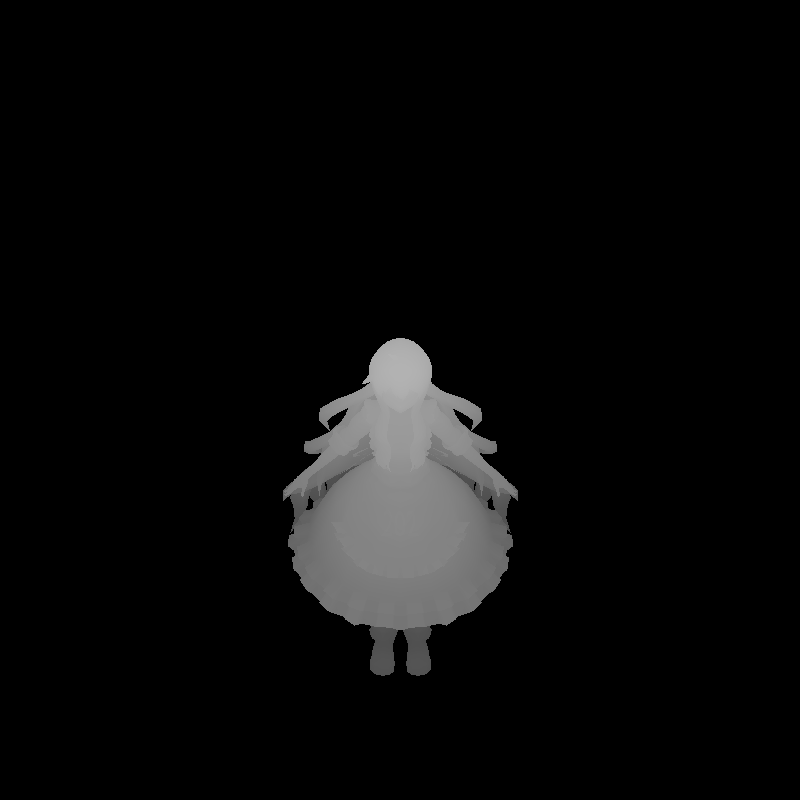
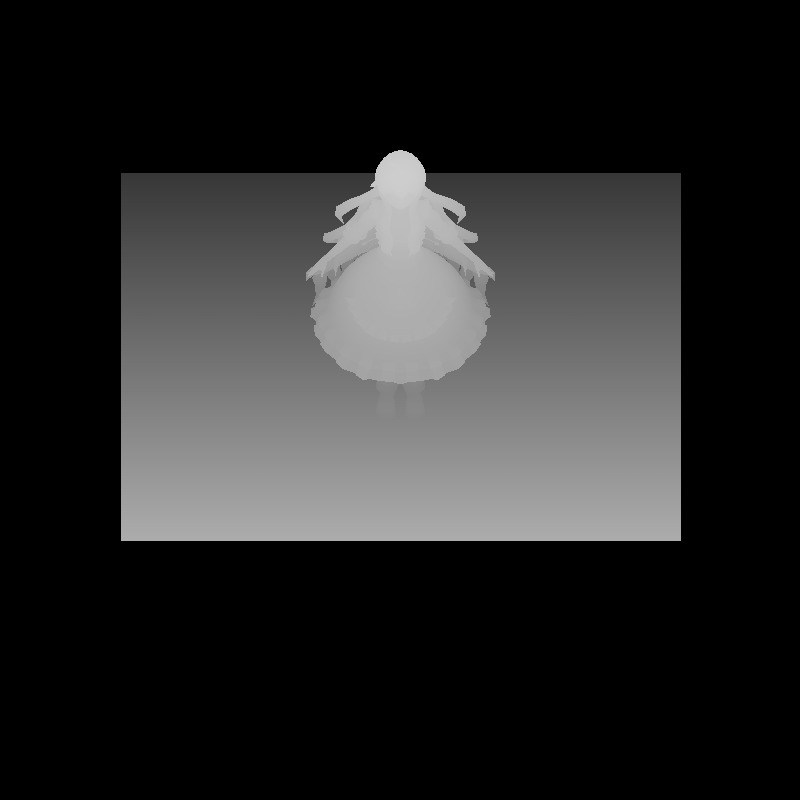
shadow

diff --git a/main.cpp b/main.cpp
@@ -281,104 +281,111 @@ void Example06() {
     depthFrame.id = 1;
     QGL::Frame frame = QGL::Frame(width, height, 4);
     frame.id = 2;
+
     QGL::Zbuffer zbuffer = QGL::Zbuffer(width, height);
+    QGL::RenderNode rn;
     QGL::Log log = QGL::Log(true, "Depth Shading: ");
     QGL::Timer timer = QGL::Timer();
     // QGL::NUMTHREADS = 8;
  
-    QGL::Model *model = new QGL::Model("../obj/Marry.obj");
-    model->vertsNormalize();
-    model->loadMap("../obj/MC003_Kozakura_Mari.png", QGL::MT_Diffuse);
+    // Marry Model
+    QGL::Model *marry = new QGL::Model("../obj/Marry.obj");
+    marry->vertsNormalize();
+    marry->loadMap("../obj/MC003_Kozakura_Mari.png", QGL::MT_Diffuse);
 
-
-    // Plane
-    Vec3f pts[4] = {Vec3f(-0.5, 0, 0.5), Vec3f(-0.5, 0, -0.5),
-                    Vec3f(0.5, 0, 0.5),  Vec3f(0.5, 0, -0.5)};
+    // Plane Model
+    Vec3f pts[4] = {Vec3f(-0.7, 0, 0.5), Vec3f(-0.7, 0, -0.8),
+                    Vec3f(0.7, 0, 0.5),  Vec3f(0.7, 0, -0.8)};
     QGL::Plane plane = QGL::Plane(pts);
     QGL::Model *planeModel = new QGL::Model(plane);
 
 
+    // Set camera from light
+    timer.update();
+    log = QGL::Log(true, "Depth Shading: ");
+
+    QGL::SetModelMat();
+    QGL::SetViewMat(dl.pos, origin, up);
+    // QGL::SetPerspectiveProjectMat(camera, origin);
+    QGL::SetScreenMat(0, 0, 800, 800, depth);
+    QGL::SetCamera(true);
+
+    // Depth Shader
+    QGL::DepthShader depthShader = QGL::DepthShader();
+    depthShader.uniform_mat_transform = QGL::MAT_TRANS;
+    
+    // 
+    rn.shader = &depthShader;
+    rn.frame = &depthFrame;
+    rn.zbuffer = &zbuffer;
+    rn.log = &log;
+    rn.comType = QGL::CT_Single;
+    //
+    rn.model = marry;
+    QGL::Rendering(rn);
+    // 
+    rn.model = planeModel;
+    QGL::Rendering(rn);
+
+    std::cout << timer.second() << "s" << std::endl;
+
+
+    // Marry && Plane
+    timer.update();
+
+    QGL::PlaneShader planeShader = QGL::PlaneShader();
+    QGL::ShadowShader shadowShader = QGL::ShadowShader();
+    planeShader.uniform_mat_depth_transform = QGL::MAT_TRANS;
+    shadowShader.uniform_mat_depth_transform = QGL::MAT_TRANS;
+    planeShader.depthFrame = &depthFrame;
+    shadowShader.depthFrame = &depthFrame;
+    // 
+    rn.frame = &frame;
+    zbuffer.clear();
+    //
     QGL::SetModelMat();
     QGL::SetViewMat(camera, origin, up);
     QGL::SetPerspectiveProjectMat(camera, origin);
     QGL::SetScreenMat(0, 0, 800, 800, depth);
     QGL::SetCamera(true);
-    QGL::PlaneShader planeShader = QGL::PlaneShader();
-    planeShader.uniform_mat_transform = QGL::MAT_TRANS;
-    planeShader.uniform_color = plane.color;
-    QGL::RenderNode rn;
-    rn.model = planeModel;
-    rn.shader = &planeShader;
-    rn.frame = &frame;
-    rn.zbuffer = &zbuffer;
-    rn.log = &log;
-    rn.comType = QGL::CT_Single;    
-    log.prefix = "Plane Shading: ";
-    timer.update();
+
+    // Marry
+    log = QGL::Log(true, "Shadow Shading: ");
+
+    shadowShader.uniform_mat_transform = QGL::MAT_TRANS;
+    shadowShader.uniform_mat_transform_i = (QGL::MAT_TRANS).inverse(); 
+    shadowShader.uniform_mat_norm_transform = QGL::MAT_NORM_TRANS;
+    shadowShader.uniform_camera = camera;
+    shadowShader.uniform_light = -dl.dir;
+    
+    rn.shader = &shadowShader;
+    rn.model = marry;
     QGL::Rendering(rn);
+
+    // Plane
+    log = QGL::Log(true, "Plane Shading: ");
+    planeShader.uniform_mat_transform = QGL::MAT_TRANS;
+    planeShader.uniform_mat_transform_i = (QGL::MAT_TRANS).inverse();
+    planeShader.uniform_color = plane.color;
+
+    rn.shader = &planeShader;
+    rn.model = planeModel;
+    QGL::Rendering(rn);
+
     std::cout << timer.second() << "s" << std::endl;
 
-
-    // Set camera from light
-    // std::cout << "set camera from light." << std::endl;
-    // QGL::SetModelMat();
-    // QGL::SetViewMat(dl.pos, origin, up);
-    // // QGL::SetPerspectiveProjectMat(camera, origin);
-    // QGL::SetScreenMat(-100, -350, 1000, 1000, depth);
-    // QGL::SetCamera(true);
-
-    // // Depth Shader
-    // std::cout << "set Depth Shader." << std::endl;
-    // QGL::DepthShader depthShader = QGL::DepthShader();
-    // depthShader.uniform_mat_transform = QGL::MAT_TRANS;
-    // // Get z-buffer
-    // QGL::RenderNode rn;
-    // rn.model = model;
-    // rn.shader = &depthShader;
-    // rn.frame = &depthFrame;
-    // rn.zbuffer = &zbuffer;
-    // rn.log = &log;
-    // rn.comType = QGL::CT_Single;
-    // std::cout << "Get z-buffer" << std::endl;
-    // QGL::Timer timer = QGL::Timer();
-    // timer.update();
-    // QGL::Rendering(rn);
-    // std::cout << timer.second() << "s" << std::endl;
-
-
-    // std::cout << "set Shadow Shader." << std::endl;
-    // log = QGL::Log(true, "Shadow Shading: ");
-    // QGL::ShadowShader shadowShader = QGL::ShadowShader();
-    // shadowShader.uniform_mat_depth_transform = QGL::MAT_TRANS;
-    // // Set camera from eye
-    // std::cout << "Set camera from eye." << std::endl;
-    // QGL::SetModelMat();
-    // QGL::SetViewMat(camera, origin, up);
-    // QGL::SetPerspectiveProjectMat(camera, origin);
-    // QGL::SetScreenMat(-100, -350, 1000, 1000, depth);
-    // QGL::SetCamera(true);    
-
-    // shadowShader.uniform_mat_transform = QGL::MAT_TRANS;    
-    // shadowShader.uniform_mat_norm_transform = QGL::MAT_NORM_TRANS;
-    // shadowShader.uniform_camera = camera;
-    // shadowShader.uniform_light = -dl.dir;
-    // shadowShader.depthFrame = &depthFrame;
-
-    // rn.shader = &shadowShader;
-    // rn.frame = &frame;
-    // zbuffer.clear();
-
-    // std::cout << "Render Shadow." << std::endl;
-    // timer.update();
-    // QGL::Rendering(rn);
-    // std::cout << timer.second() << "s" << std::endl;
+    std::cout << "draw depth frame." << std::endl;
+    std::string out_depth = "../example/out_depth.png";
+    depthFrame.flip();
+    depthFrame.draw(out_depth.c_str());
 
     std::cout << "draw frame." << std::endl;
     std::string out = "../example/out.png";
     frame.flip();
     frame.draw(out.c_str());
 
-    delete model;
+    // delete planeModel;
+    delete marry;
 }
 
 void ExampleOmp() {

diff --git a/shaders.h b/shaders.h
@@ -192,11 +192,12 @@ public:
 class ShadowShader : public Shader {
 public:
     Matrix uniform_mat_transform;
+    Matrix uniform_mat_transform_i;
     Matrix uniform_mat_norm_transform;
     Matrix uniform_mat_depth_transform;
     Vec3f uniform_camera;
     Vec3f uniform_light;
-    Vec3f varying_vertex[3];
+    Vec4f varying_vertex[3];
     Vec3f varying_normal[3];
     Vec2f varying_uv[3];
     Frame *depthFrame;
@@ -206,11 +207,11 @@ public:
         _normal = (uniform_mat_norm_transform*_normal).normalize();
         varying_normal[in.nthvert] = _normal.v3f();
 
-        varying_vertex[in.nthvert] = in.v;
         Vec4f vertex = Vec4f(in.v, 1.0f);
         vertex = uniform_mat_transform*vertex;
         vertex = vertex / vertex.w;
         out.sCoord = vertex;
+        varying_vertex[in.nthvert] = vertex;
 
         // tex
         Vec2f uv = in.model->tex(in.nthface, in.nthvert);
@@ -220,14 +221,14 @@ public:
     virtual bool fragment(const InFragment &in, OutFragment &out) {
         Vec3f bar = in.bar;
         Vec3f dir = uniform_light;
-        Vec3f v = varying_vertex[0]*bar[0]+varying_vertex[1]*bar[1]+varying_vertex[2]*bar[2];
-        
+        Vec4f sv = varying_vertex[0]*bar[0]+varying_vertex[1]*bar[1]+varying_vertex[2]*bar[2];
+        Vec4f v = uniform_mat_transform_i*sv;
+
         // if shadow
-        Vec4f v4f = Vec4f(v, 1.0f);
-        v4f = uniform_mat_depth_transform*v4f;
-        v4f = v4f / v4f.w;
-        float z = depthFrame->get(int(v4f.x+.5f), int(v4f.y+.5f))[0];
-        if (v4f.z > z + 0.003f) {
+        Vec4f dv = uniform_mat_depth_transform*v;
+        dv = dv / dv.w;
+        float z = depthFrame->get(int(dv.x+.5f), int(dv.y+.5f))[0];
+        if (dv.z < z - 0.003f) {
             out.color = Vec4f(0.0f, 0.0f, 0.0f, 1.0f);
             return false;
         }
@@ -235,7 +236,7 @@ public:
         Vec3f N = varying_normal[0]*bar[0]+varying_normal[1]*bar[1]+varying_normal[2]*bar[2];
         float diffuse = std::max(0.0f, dir*N);
 
-        Vec3f view = uniform_camera-v;
+        Vec3f view = uniform_camera-v.v3f();
         Vec3f h = (view + dir).normalize();
         float a = std::max(0.0f, h*N);
         float specular = std::pow(a, 100.f);
@@ -258,14 +259,41 @@ public:
 class PlaneShader : public Shader {
 public:
     Matrix uniform_mat_transform;
+    Matrix uniform_mat_transform_i;
+    Matrix uniform_mat_depth_transform;
     Vec4f uniform_color;
+    Frame *depthFrame;
+
+    Vec4f varying_vertex[3];
+    // Vec4f varying_depth_vertex[3];
+
     virtual void vertex(const InVectex &in, OutVectex &out) {
         Vec4f vertex = Vec4f(in.v, 1.0f);
         vertex = uniform_mat_transform*vertex;
         vertex = vertex / vertex.w;
         out.sCoord = vertex;
+        varying_vertex[in.nthvert] = vertex;
+
+        // wrong!
+        // Vec4f dv = Vec4f(in.v, 1.0f);
+        // dv = uniform_mat_depth_transform*dv;
+        // dv = dv / dv.w;
+        // varying_depth_vertex[in.nthvert] = dv;
     }
     virtual bool fragment(const InFragment &in, OutFragment &out) {
+        Vec3f bar = in.bar;
+        Vec4f sv = varying_vertex[0]*bar[0]+varying_vertex[1]*bar[1]+varying_vertex[2]*bar[2];
+        
+        // if shadow
+        Vec4f dv = uniform_mat_depth_transform*uniform_mat_transform_i*sv;
+        // Vec4f dv = varying_depth_vertex[0]*bar[0]+varying_depth_vertex[1]*bar[1]+varying_depth_vertex[2]*bar[2]; wrong!
+        dv = dv / dv.w;
+        float z = depthFrame->get(int(dv.x+.5f), int(dv.y+.5f))[0];
+        if (dv.z < z - 0.003f) {
+            out.color = Vec4f(0.0f, 0.0f, 0.0f, 1.0f);
+            return false;
+        }
+
         out.color = uniform_color;
         return false;
     }
